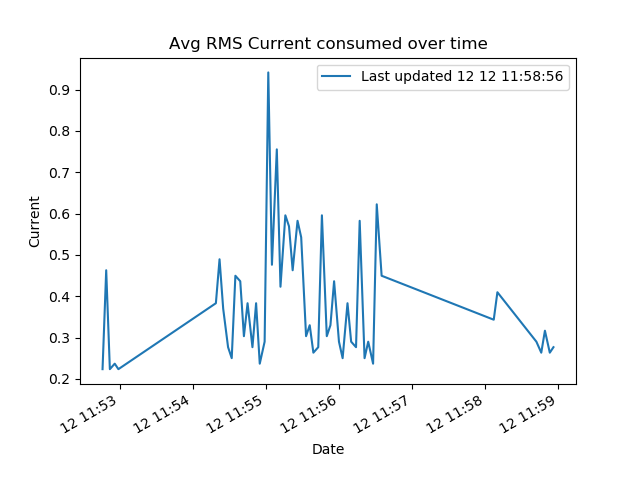
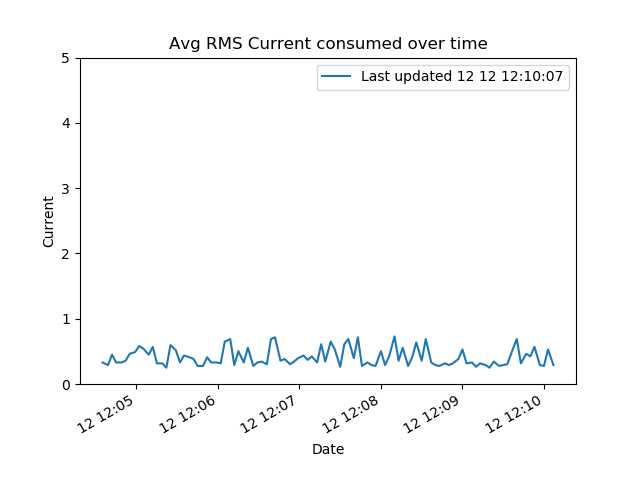
gui added and some revisions to current library

diff --git a/raspberrypicode/gui.html b/raspberrypicode/gui.html
@@ -1,0 +1,46 @@
+<!DOCTYPE html>
+<html>
+
+<head>
+  <meta charset="UTF-8">
+  <title>Outlet Nanny</title>
+  <script src="main.js"></script>
+
+</head>
+
+<body>
+ <h1>Outlet Nanny</h1>
+  <!-- quick button test -->
+  <!-- <p id="demo"> ECE 4760... </p>
+  <button type="button" onclick="myFunction()">Press Me</button> -->
+
+  <!-- graph data here -->
+  <div id="Graph">
+    <h2> Graph </h2>
+    <div id="graph_stuff"> </div>
+        <img src="avg_irms_over_time.png">
+  </div>
+
+  <!-- text output here -->
+  <div id="text-output">
+    <h2> Output </h2>
+  </div>
+
+  <!-- user input here -->
+  <div id="Inputs">
+    <h2> Input </h2>
+    <!-- TO DO -->
+    <form>
+
+      <ul>
+        <li><button type="button" onclick="">Manual Replot</button></li>
+        <li>Enable Power <input type="radio" name="enable" value=1 onclick="turnOnRelay()"></input></li>
+        <li>Disable Power<input type="radio" name="enable" value=0 onclick="turnOffRelay()"></input></li>
+      </ul>
+
+
+    </form>
+  </div>
+</body>
+
+</html>

diff --git a/raspberrypicode/serial_and_pyplot.py b/raspberrypicode/serial_and_pyplot.py
@@ -55,7 +55,7 @@ def read_csv():
     #print(tt)
     #print(value)
 
-def draw_irms_plot():
+def draw_irms_plot(y_min, y_max):
     global tt
     global value
 
@@ -69,6 +69,8 @@ def draw_irms_plot():
     plt.gcf().autofmt_xdate() #beautify x-labels
     plt.legend()
     #plt.show()
+    axes = plt.gca()
+    axes.set_ylim( [y_min, y_max] )
     plt.savefig("avg_irms_over_time", edgecolor='b')
     plt.clf()
 
@@ -82,10 +84,29 @@ while(1):
     i+= 1
     append_current_reading()
     read_csv()
-    draw_irms_plot()
-    if (i == 5):
+    draw_irms_plot(0, 5)
+    if (i == 100):
         i = 0
         input("")
     value = []
     tt = []
+    #time.sleep(2)
+
+def test_serial_and_plotting():
+    sera.requestRelay(True)
+    print("setting up the device...")
+    time.sleep(5)
+    #sera.debug_terminal()
+    print("done")
+    i = 0
+    while(1):
+        i+= 1
+        append_current_reading()
+        read_csv()
+        draw_irms_plot(0, 5)
+        if (i == 100):
+            i = 0
+            input("")
+        value = []
+        tt = []
     #time.sleep(2)
